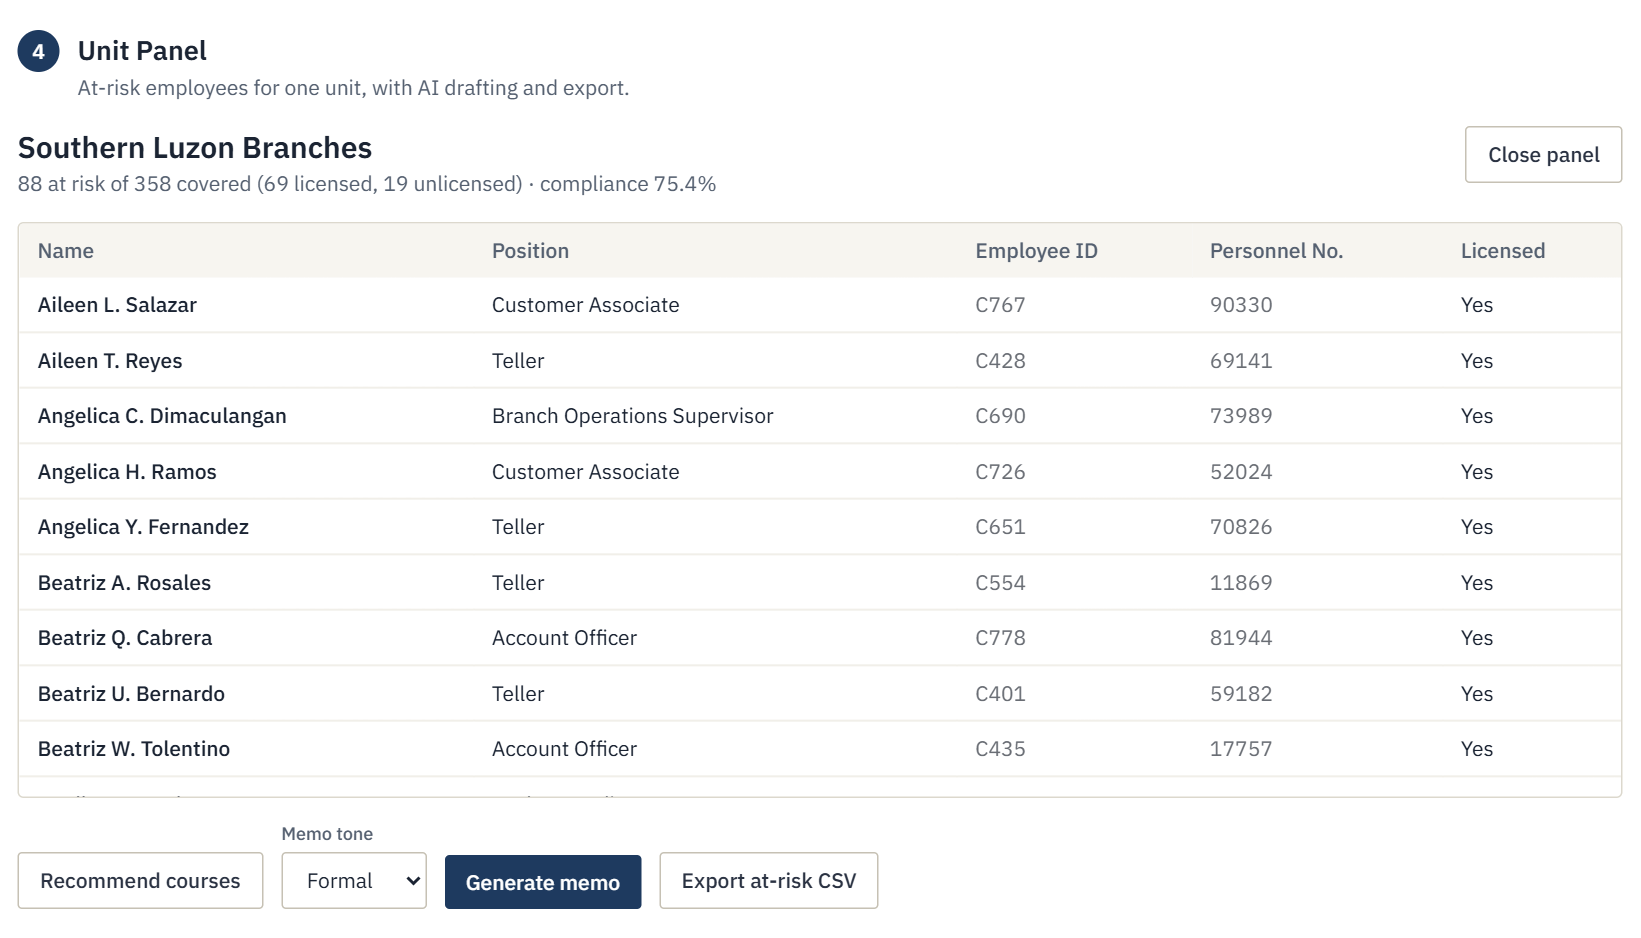
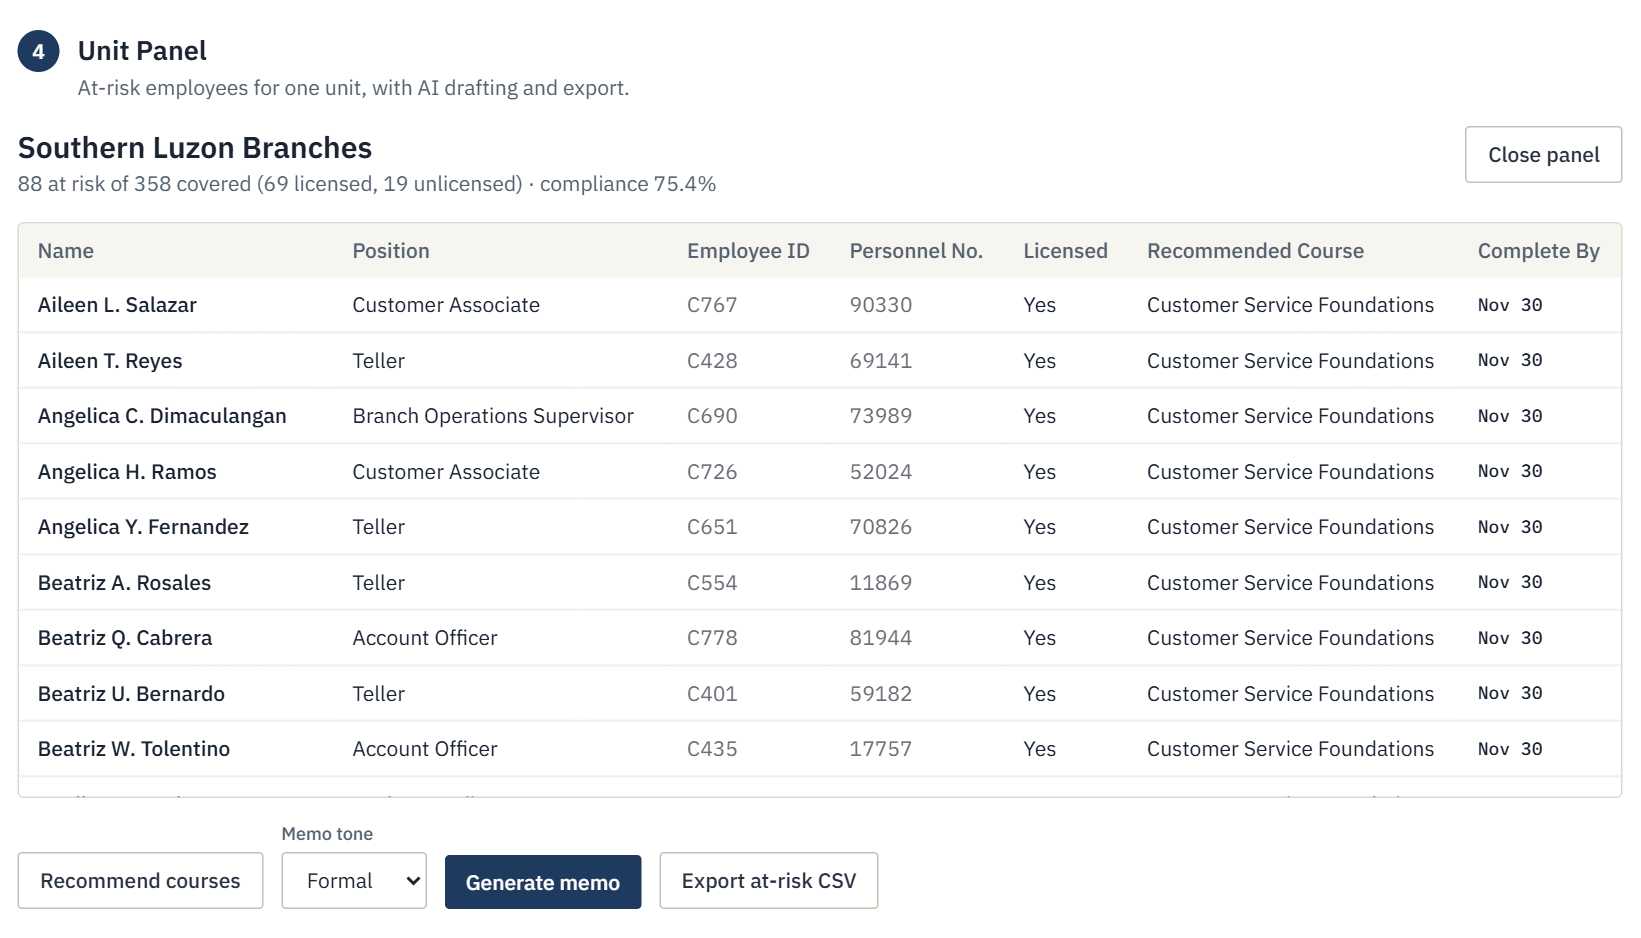
docs: unit panel screenshot, README, demo script and architecture for per-person courses

diff --git a/README.md b/README.md
@@ -54,7 +54,7 @@ All screens use the built-in synthetic sample (12,000 fictional employees). More
 - **Training calendar tab**, with an **Edit calendar** what-if mode (add, edit, duplicate and remove runs; undo, restore and reset; every number recomputes; changes stay in the browser and are lost on reload, so export the CSV to keep them): every planned run for the year in four views (month grid, list, a course-by-month timeline, and a by-quarter list of trainings still available with estimated seats open), each run with its state (held, planned, not needed, after Dec 14), cost at expected enrolment, seats, the external : in-house mix against 3:1, cost by month, the sector windows for the recommended course, alerts, CSV export and print.
 - **Recommended-course windows and a plan** (optional catalog flag `recommended` and `calendar.csv`): one staggered monthly window per sector for the annual course (e.g. AMLA), who completed or missed it, and a deterministic plan for the rest: licensed staff on LinkedIn at no extra cost, unlicensed staff in calendar runs above their minimum size or on the paid LinkedIn fee, no in-person runs after Dec 14.
 - **Back-test card**: recall and precision at Jun 30 and Sep 30.
-- **Unit panel**: at-risk employees, CSV export, AI-drafted memo, catalog-grounded course recommendations.
+- **Unit panel**: at-risk employees, each with a **Recommended Course** and a **Complete By** date (licensed staff on a LinkedIn course by Nov 30, unlicensed staff in the calendar run the plan places them in, by its date), CSV export with the same columns, an AI-drafted memo whose name lines carry each person's course and date, and catalog-grounded course recommendations.
 - **Works without AI, too:** if an AI call fails or the free quota runs out, memos and the executive summary fall back to a clearly labeled template draft built from the same numbers.
 - **Executive summary** for a department head: an AI-written narrative plus four charts (status breakdown, highest-risk units, back-test, cost vs budget) drawn from the engine, so they stay accurate and still appear if the AI is unavailable.
 - **Privacy by design**: employee names and IDs never leave the browser.
@@ -103,7 +103,7 @@ Switching provider is one variable (`AI_PROVIDER=groq` or `anthropic`) plus its 
 
 ## Tests
 
-`npm test` runs **381 tests in 33 files** (Vitest). They cover:
+`npm test` runs **392 tests in 34 files** (Vitest). They cover:
 
 - every compliance rule and their order, ranking, rounding, back-test and cost-to-close;
 - CSV validation (missing columns, duplicates, impossible dates, limits);

diff --git a/docs/architecture.md b/docs/architecture.md
@@ -64,6 +64,7 @@ All of this runs in the browser, in pure functions under `lib/engine` and `lib/a
 | Plan and cost to close | `lib/analysis/plan.ts` | Licensed staff close through LinkedIn at ₱0; unlicensed staff fill future runs cheapest first, then a paid LinkedIn course; runs below minimum enrolment or after Dec 14 are not held |
 | Budget burn-down | `lib/analysis/budget.ts`, `commitments.ts` | Spent by month (attendance costs plus January subscriptions), commitments (future runs, nominations, LinkedIn fees), outstanding and projected year-end balance |
 | Collapsed Data and Rules | `lib/analysis/setup.ts`, `components/SetupBar.tsx` | When steps 1 and 2 fold (everything loaded, valid and analyzed, not opened for the same files), and the one-line summary of files and key rules |
+| Per-person course and date | `lib/analysis/plan.ts` (assignments), `lib/analysis/assign.ts` | Each at-risk employee's route (recommended-course window, LinkedIn, calendar run, paid LinkedIn, none) and from it one recommended course and a complete-by date, shown in the Unit Panel, memo lines and CSV; browser only |
 | The Money panel | `lib/analysis/money.ts`, `components/MoneyPanel.tsx` | Spent, promised (commitments plus any catalog estimate) and projected left, with shares of the allocation and bar widths that always fill; count and cost of calendar runs still to come |
 | Calendar tab | `lib/analysis/calendar-view.ts`, `calendar-timeline.ts` | Run states (completed, planned, standby, blocked after Dec 14), cost at expected enrolment, monthly chart, alerts; year grid, list, course timeline and by-quarter views |
 | What-if editing | `lib/analysis/calendar-edit.ts`, `components/CalendarEditor.tsx` | Add, edit, move, duplicate or remove runs with undo, restore and reset. The app analyzes `applyCalendarEdits(calendar, edits)`, so the dashboard, plan, budget and calendar views all recalculate. Edits are validated with the same schema as an uploaded calendar |

diff --git a/docs/demo-script.md b/docs/demo-script.md
@@ -20,7 +20,7 @@ Live site: https://training-compliance-radar.vercel.app (open it in an **incogni
 | **0:55–1:05** | Bar chart, then **Units Ranked by Risk** | "Only units with untrained staff are listed, ranked by risk. Southern Luzon Branches leads with 88." |
 | **1:05–1:17** | **Training Calendar** tab; year grid; *optional:* **Edit calendar** → remove one planned run → point at the totals → **Reset all changes** | "The calendar shows all 48 runs: 36 external to 12 in-house, exactly 3 to 1. Only 3 of the 17 upcoming runs are needed. I can cancel a run as a what-if and every number recalculates; nothing is saved." |
 | **1:17–1:25** | Back to **Radar**; **Back-Test** card | "Does early flagging work? At Sep 30 we flag 1,691 people and catch all 891 who end the year untrained." |
-| **1:25–1:35** | Click **Southern Luzon Branches**; at-risk list; **Export at-risk CSV** | "Click a unit for its at-risk list, and export it to CSV." |
+| **1:25–1:35** | Click **Southern Luzon Branches**; point at **Recommended Course** and **Complete By**; **Export at-risk CSV** | "Click a unit for its at-risk list. Each person gets one course and a date: licensed staff take a LinkedIn course by November 30, the rest go into the calendar run the plan picked. Export it to CSV." |
 | **1:35–1:52** | **Recommend courses**, then **Generate memo** | "AI recommends courses only from my catalog, and every ID is checked. The memo is drafted from counts alone; the names are merged in my browser, so the AI never sees them." |
 | **1:52–2:00** | **Executive Summary** (header), then the GitHub repo | "One click gives a department head a summary. The code computes; the AI communicates. Source, tests and CI are on GitHub." |
 
